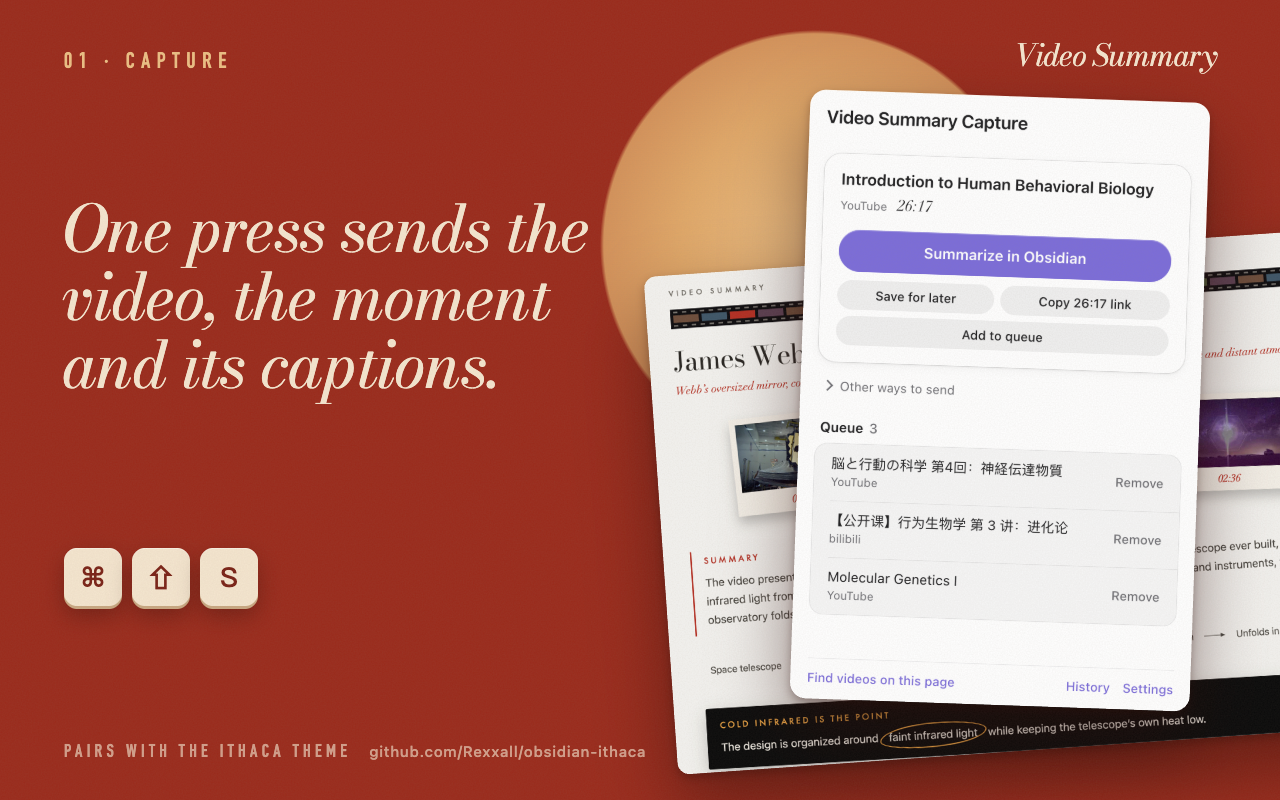
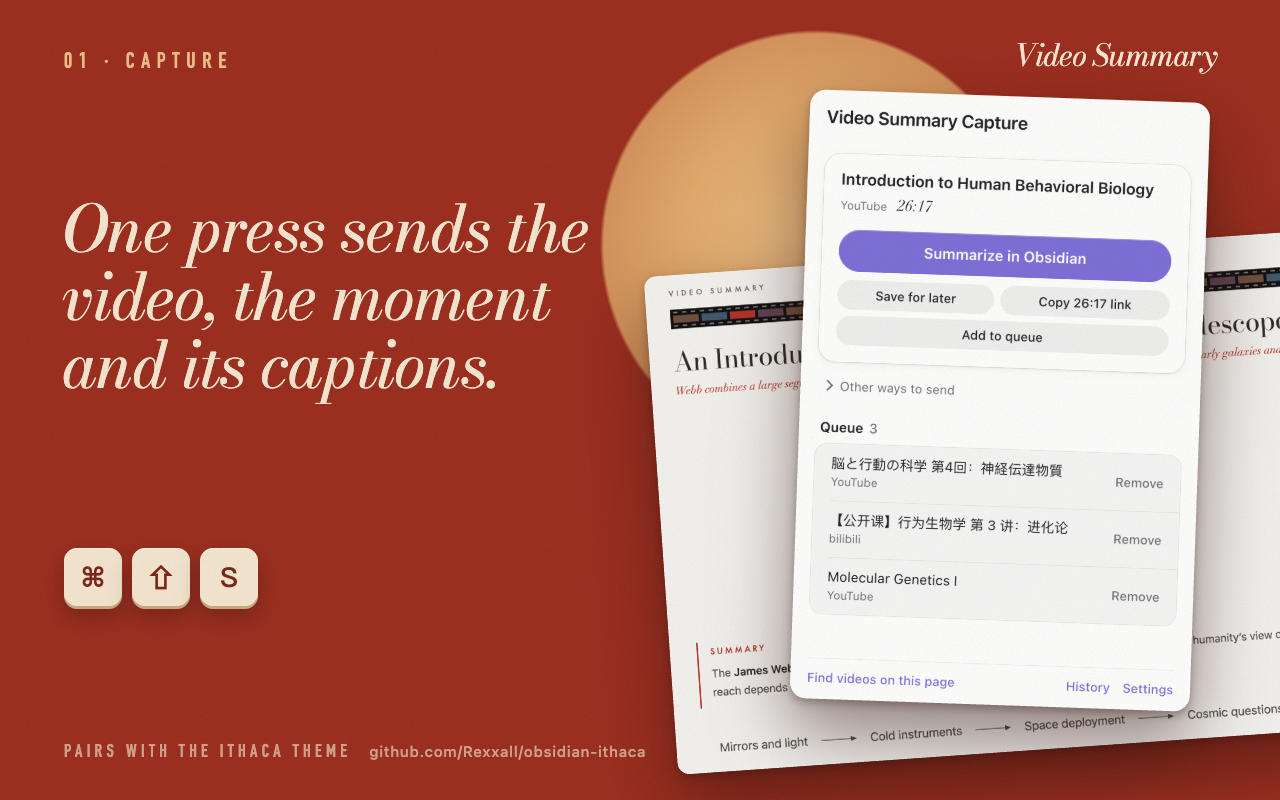
Reshoot en and ja store screenshots from unedited plugin output

diff --git a/docs/store/src/store.html b/docs/store/src/store.html
@@ -336,7 +336,7 @@
             'Frames from the moments that matter',
             'A verdict, stamped',
             'The gist in a few lines',
-            'Every time jumps to that second',
+            'The thread, at a glance',
           ],
           h3: 'Ideas and the speaker’s own words, kept on paper.',
           h4: 'Light or dark, in your browser’s language.',
@@ -380,7 +380,7 @@
             '要所の場面をそのまま',
             '見る価値をスタンプで',
             '要点を数行で',
-            '時刻を押せばその場面へ',
+            '話の流れをひと目で',
           ],
           h3: 'アイデアも原文も、紙の上に。',
           h4: 'ライトでもダークでも、ブラウザの言語で。',
@@ -465,24 +465,35 @@
         const sec = svg.parentElement;
         const L = box.left - 26;
         const R = box.right + 26;
-        // The red-pen ring sits on the second photo's timestamp, which moves with the caption length.
-        const RING = { en: [0.374, 0.488], zh_CN: [0.33, 0.488], ja: [0.315, 0.48] }[lang];
-        const marks = [
-          { a: at(0.05, 0.235), side: 'left', y: at(0, 0.235)[1] },
-          { a: at(0.17, 0.4), side: 'left', y: at(0, 0.42)[1] },
-          { a: at(0.935, 0.33), side: 'right', y: at(0, 0.33)[1] },
-          { a: at(0.035, 0.62), side: 'left', y: at(0, 0.66)[1] },
-          { a: at(RING[0], RING[1]), side: 'right', y: at(0, 0.6)[1] },
-        ];
+        // zh_CN: older capture with photo timestamps, so the last mark is a red-pen ring on one.
+        // en/ja: current plugin output (one cover, no timestamp above the fold), so it points at the flow line.
+        const RING = lang === 'zh_CN' ? [0.33, 0.488] : null;
+        const marks = RING
+          ? [
+              { a: at(0.05, 0.235), side: 'left', y: at(0, 0.235)[1] },
+              { a: at(0.17, 0.4), side: 'left', y: at(0, 0.42)[1] },
+              { a: at(0.935, 0.33), side: 'right', y: at(0, 0.33)[1] },
+              { a: at(0.035, 0.62), side: 'left', y: at(0, 0.66)[1] },
+              { a: at(RING[0], RING[1]), side: 'right', y: at(0, 0.6)[1] },
+            ]
+          : [
+              { a: at(0.05, 0.227), side: 'left', y: at(0, 0.227)[1] },
+              { a: at(0.3, 0.45), side: 'left', y: at(0, 0.45)[1] },
+              { a: at(0.938, 0.319), side: 'right', y: at(0, 0.319)[1] },
+              { a: at(0.035, 0.787), side: 'left', y: at(0, 0.787)[1] },
+              { a: at(lang === 'ja' ? 0.885 : 0.81, 0.952), side: 'right', y: at(0, 0.952)[1] },
+            ];
         marks.forEach((m, i) => {
           const x = m.side === 'left' ? L : R;
           label(sec, c.a[i], m.side === 'left' ? x - 10 : x + 10, m.y, m.side);
-          // The last one ends at the red-pen ring instead of a dot.
-          if (i === 4) line(svg, x, m.y, m.a[0] + 26, m.a[1] + 6, true, false);
+          // On zh_CN the last one ends at the red-pen ring instead of a dot.
+          if (i === 4 && RING) line(svg, x, m.y, m.a[0] + 26, m.a[1] + 6, true, false);
           else line(svg, x, m.y, m.a[0], m.a[1]);
         });
-        const t = at(RING[0], RING[1]);
-        ring(svg, t[0], t[1], 23, 11);
+        if (RING) {
+          const t = at(RING[0], RING[1]);
+          ring(svg, t[0], t[1], 23, 11);
+        }
       }
       if (shot === '5')
         window.addEventListener('load', () => {

diff --git a/docs/store/LISTING.md b/docs/store/LISTING.md
@@ -17,7 +17,7 @@ cd browser-extension && zip -qrX ../video-summary-capture-0.9.0.zip . -x README.
 - **Name and summary:** come from the package (`_locales/*/messages.json`), in English, 简体中文 and 日本語.
 - **Category:** Productivity → Tools
 - **Language:** English, then add 简体中文 and 日本語 and paste each description below.
-- **Screenshots (1280×800):** `screenshot-1-<lang>.png` to `screenshot-5-<lang>.png` for each listing language (`en`, `zh_CN`, `ja`), in that order: popup, note anatomy, paper pieces, light and dark, background sending. The example note is plugin output for NASA Goddard's public-domain "An Introduction to the James Webb Space Telescope Mission".
+- **Screenshots (1280×800):** `screenshot-1-<lang>.png` to `screenshot-5-<lang>.png` for each listing language (`en`, `zh_CN`, `ja`), in that order: popup, note anatomy, paper pieces, light and dark, background sending. The example notes are unedited plugin output (each in its listing language) for NASA Goddard's public-domain "An Introduction to the James Webb Space Telescope Mission".
 - **Small promo tile (440×280):** `promo-small.png`
 - **Icon (128×128):** `browser-extension/icons/icon128.png`
 - **Homepage:** https://github.com/Rexxall/obsidian-video-summary
